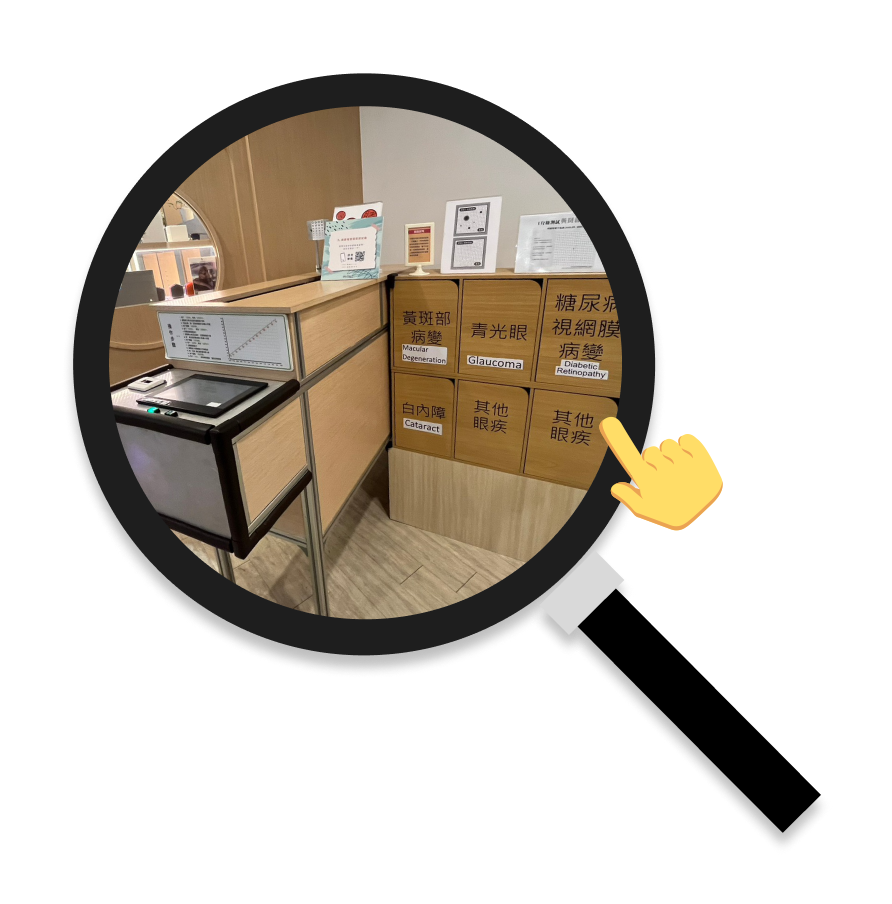
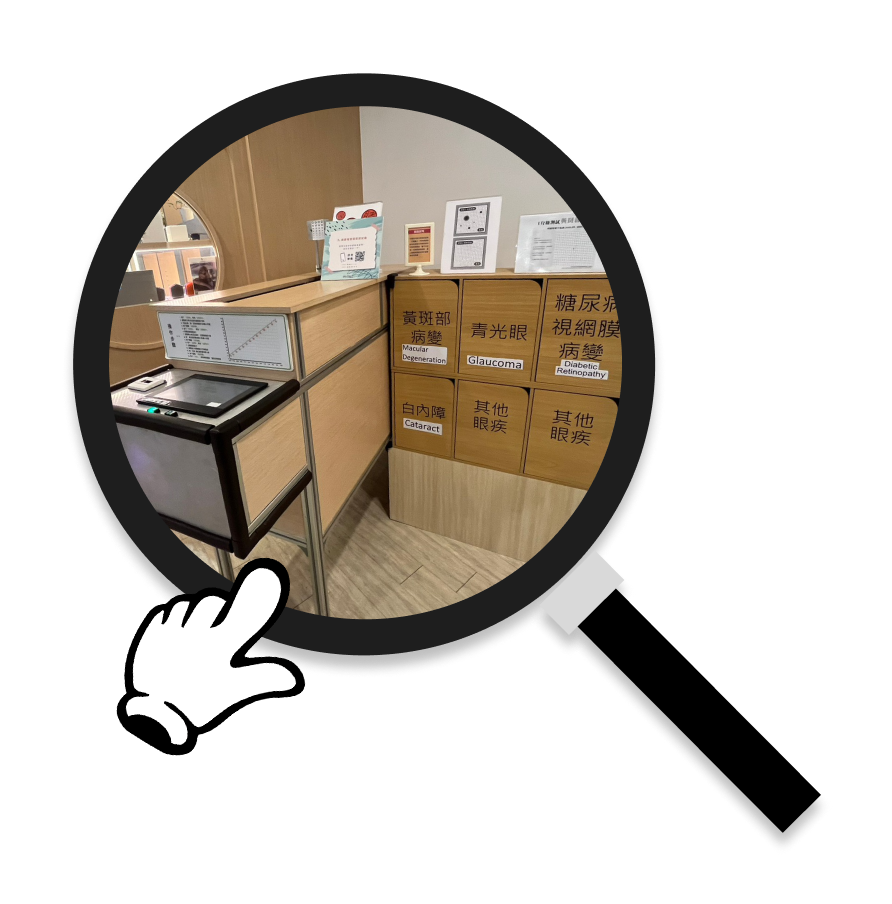
L4 update

Changed region(s): [[0.1513, 0.6195, 0.3632, 0.7743], [0.6659, 0.4646, 0.8173, 0.5885], [0.1211, 0.7124, 0.2724, 0.8363]]

diff --git a/html/L4.html b/html/L4.html
@@ -8,8 +8,8 @@
     <div class="container"> 
       <audio id="myAudio" controls="" hidden="hidden" autoplay="autoplay" loop="loop">
         <source src="../bgm/witch.mp3" type="audio/mpeg"/>
-      </audio><img class="background_image22" src="../picture/gif/p22_p28-31.gif"/><img class="button22_0" src="../picture/update06_09/page22/13 Pro - 128(change).png"/><img class="button22_1" src="../picture/update06_09/page22/Group 100(change).png"/><img class="button22_2" src="../picture/update06_09/page22/Group 101(change).png"/><img class="background_image23" src="../picture/gif/p23-25.gif" style="visibility: hidden;"/><img class="button23_0" src="../picture/update06_09/page23/13 Pro - 129(change).png" style="visibility: hidden;"/><img class="button23_1" src="../picture/update06_09/page23/Group 102(change).png" style="visibility: hidden;"/><img class="button23_2" src="../picture/update06_09/page23/Group 103(change).png" style="visibility: hidden;"/><img class="background_image24" src="../picture/gif/p23-25.gif" style="visibility: hidden;"/><img class="button24_0" src="../picture/update06_09/page24/13 Pro - 130(change).png" style="visibility: hidden;"/><img class="button24_1" src="../picture/update06_09/page24/Group 104(change).png" style="visibility: hidden;"/><img class="button24_2" src="../picture/update06_09/page24/Group 105(change).png" style="visibility: hidden;"/><img class="background_image25" src="../picture/gif/p23-25.gif" style="visibility: hidden;"/><img class="button25_0" src="../picture/update06_09/page25/13 Pro - 131(change).png" style="visibility: hidden;"/><img class="button25_1" src="../picture/update06_09/page25/Group 106(change).png" style="visibility: hidden;"/><img class="button25_2" src="../picture/update06_09/page25/Group 107(change).png" style="visibility: hidden;"/><img class="background_image26" src="../picture/page26/iPhone 13/13 Pro - 118.png" style="visibility: hidden;"/><img class="button26_0" src="../picture/update06_09/page26/Group 43_.png" style="visibility: hidden;"/><img class="button26_1" src="../picture/update06_09/page26/Group 292.png" style="visibility: hidden;"/><img class="button26_2" src="../picture/update06_09/page26/Group 109(change).png" style="visibility: hidden;"/><img class="button26_3" src="../picture/update06_09/page26/Group 290.png" style="visibility: hidden;"/><img class="button26_1_" src="../picture/update06_09/page26/Group 295.png" style="visibility: hidden;"/><img class="button26_2_" src="../picture/update06_09/page26/Group 298 (2).png" style="visibility: hidden;"/><img class="button26_3_" src="../picture/update06_09/page26/Group 293.png" style="visibility: hidden;"/><img class="button26_4" src="../picture/update06_09/page26/Group 111(change).png" style="visibility: hidden;"/><img class="background_image28" src="../picture/gif/p22_p28-31.gif" style="visibility: hidden;"/><img class="button28_0" src="../picture/update06_09/page28/13 Pro - 132(change).png" style="visibility: hidden;"/><img class="button28_1" src="../picture/update06_09/page28/Group 112(change).png" style="visibility: hidden;"/><img class="button28_2" src="../picture/update06_09/page28/Group 113(change).png" style="visibility: hidden;"/><img class="background_image29" src="../picture/gif/p22_p28-31.gif" style="visibility: hidden;"/><img class="button29_0" src="../picture/update06_09/page29/13 Pro - 133(change).png" style="visibility: hidden;"/><img class="button29_1" src="../picture/update06_09/page29/Group 118(change).png" style="visibility: hidden;"/><img class="button29_2" src="../picture/update06_09/page29/Group 119(change).png" style="visibility: hidden;"/><img class="button29_3" src="../picture/update06_09/page29/Group 306(change).png" style="visibility: hidden;"/><img class="button29_4" src="../picture/update06_09/page29/Group 117(change).png" style="visibility: hidden;"/><img class="button29_5" src="../picture/update06_09/page29/Group 116(change).png" style="visibility: hidden;"/><img class="button29_6" src="../picture/update06_09/page29/Group 115(change).png" style="visibility: hidden;"/><img class="button29_1_" src="../picture/update06_09/page29/Group 313.png" style="visibility: hidden;"/><img class="button29_2_" src="../picture/update06_09/page29/Group 312.png" style="visibility: hidden;"/><img class="button29_3_" src="../picture/update06_09/page29/Group 311.png" style="visibility: hidden;"/><img class="button29_4_" src="../picture/update06_09/page29/Group 308.png" style="visibility: hidden;"/><img class="button29_5_" src="../picture/update06_09/page29/Group 309.png" style="visibility: hidden;"/><img class="button29_6_" src="../picture/update06_09/page29/Group 310.png" style="visibility: hidden;"/><img class="button29_7" src="../picture/update06_09/page29/Group 114(change).png" style="visibility: hidden;"/><img class="background_image30" src="../picture/gif/p22_p28-31.gif" style="visibility: hidden;"/><img class="button30_0" src="../picture/update06_09/page30/13 Pro - 134(change).png" style="visibility: hidden;"/>
-      <input class="input30" id="Input" type="number" placeholder="時長" style="visibility: hidden;"/><img class="button30_1" src="../picture/update06_09/page30/Group 122(change).png" style="visibility: hidden;"/><img class="background_image31" src="../picture/gif/p22_p28-31.gif" style="visibility: hidden;"/><img class="button31_0" src="../picture/update06_09/page31/13 Pro - 135(change).png" style="visibility: hidden;"/><img class="button31_1" src="../picture/update06_09/page31/Group 123(change).png" style="visibility: hidden;"/><img class="button31_2" src="../picture/update06_09/page31/Group 124(change).png" style="visibility: hidden;"/><img class="background_image32" src="../picture/update06_09/page32/13 Pro - 117(change).png" style="visibility: hidden;"/><img class="button32_1" src="../picture/update06_09/page32/Group 125(change).png" style="visibility: hidden;"/><img class="background_image33" src="../picture/update06_09/page33/13 Pro - 147(change).png" style="visibility: hidden;"/><img class="button33_0" src="../picture/update06_09/page33/Group 194.png" style="visibility: hidden;"/><img class="button33_1" src="../picture/update06_09/page33/click.png" style="visibility: hidden;"/>
+      </audio><img class="background_image22" src="../picture/gif/p22_p28-31.gif"/><img class="button22_0" src="../picture/update06_09/page22/13 Pro - 128(change).png"/><img class="button22_1" src="../picture/update06_09/page22/Group 100(change).png"/><img class="button22_2" src="../picture/update06_09/page22/Group 101(change).png"/><img class="background_image23" src="../picture/gif/p23-25.gif" style="visibility: hidden;"/><img class="button23_0" src="../picture/update06_09/page23/13 Pro - 129(change).png" style="visibility: hidden;"/><img class="button23_1" src="../picture/update06_09/page23/Group 102(change).png" style="visibility: hidden;"/><img class="button23_2" src="../picture/update06_09/page23/Group 103(change).png" style="visibility: hidden;"/><img class="background_image24" src="../picture/gif/p23-25.gif" style="visibility: hidden;"/><img class="button24_0" src="../picture/update06_09/page24/13 Pro - 130(change).png" style="visibility: hidden;"/><img class="button24_1" src="../picture/update06_09/page24/Group 104(change).png" style="visibility: hidden;"/><img class="button24_2" src="../picture/update06_09/page24/Group 105(change).png" style="visibility: hidden;"/><img class="background_image25" src="../picture/gif/p23-25.gif" style="visibility: hidden;"/><img class="button25_0" src="../picture/update06_09/page25/13 Pro - 131(change).png" style="visibility: hidden;"/><img class="button25_1" src="../picture/update06_09/page25/Group 106(change).png" style="visibility: hidden;"/><img class="button25_2" src="../picture/update06_09/page25/Group 107(change).png" style="visibility: hidden;"/><img class="background_image26" src="../picture/update06_09/page26/13 Pro - 118(change).png" style="visibility: hidden;"/><img class="button26_0" src="../picture/update06_09/page26/Group 43_.png" style="visibility: hidden;"/><img class="button26_1" src="../picture/update06_09/page26/Group 292.png" style="visibility: hidden;"/><img class="button26_2" src="../picture/update06_09/page26/Group 109(change).png" style="visibility: hidden;"/><img class="button26_3" src="../picture/update06_09/page26/Group 290.png" style="visibility: hidden;"/><img class="button26_1_" src="../picture/update06_09/page26/Group 295.png" style="visibility: hidden;"/><img class="button26_2_" src="../picture/update06_09/page26/Group 298 (2).png" style="visibility: hidden;"/><img class="button26_3_" src="../picture/update06_09/page26/Group 293.png" style="visibility: hidden;"/><img class="button26_4" src="../picture/update06_09/page26/Group 111(change).png" style="visibility: hidden;"/><img class="background_image28" src="../picture/gif/p22_p28-31.gif" style="visibility: hidden;"/><img class="button28_0" src="../picture/update06_09/page28/13 Pro - 132(change).png" style="visibility: hidden;"/><img class="button28_1" src="../picture/update06_09/page28/Group 112(change).png" style="visibility: hidden;"/><img class="button28_2" src="../picture/update06_09/page28/Group 113(change).png" style="visibility: hidden;"/><img class="background_image29" src="../picture/gif/p22_p28-31.gif" style="visibility: hidden;"/><img class="button29_0" src="../picture/update06_09/page29/13 Pro - 133(change).png" style="visibility: hidden;"/><img class="button29_1" src="../picture/update06_09/page29/Group 118(change).png" style="visibility: hidden;"/><img class="button29_2" src="../picture/update06_09/page29/Group 119(change).png" style="visibility: hidden;"/><img class="button29_3" src="../picture/update06_09/page29/Group 306(change).png" style="visibility: hidden;"/><img class="button29_4" src="../picture/update06_09/page29/Group 117(change).png" style="visibility: hidden;"/><img class="button29_5" src="../picture/update06_09/page29/Group 116(change).png" style="visibility: hidden;"/><img class="button29_6" src="../picture/update06_09/page29/Group 115(change).png" style="visibility: hidden;"/><img class="button29_1_" src="../picture/update06_09/page29/Group 313.png" style="visibility: hidden;"/><img class="button29_2_" src="../picture/update06_09/page29/Group 312.png" style="visibility: hidden;"/><img class="button29_3_" src="../picture/update06_09/page29/Group 311.png" style="visibility: hidden;"/><img class="button29_4_" src="../picture/update06_09/page29/Group 308.png" style="visibility: hidden;"/><img class="button29_5_" src="../picture/update06_09/page29/Group 309.png" style="visibility: hidden;"/><img class="button29_6_" src="../picture/update06_09/page29/Group 310.png" style="visibility: hidden;"/><img class="button29_7" src="../picture/update06_09/page29/Group 114(change).png" style="visibility: hidden;"/><img class="background_image30" src="../picture/gif/p22_p28-31.gif" style="visibility: hidden;"/><img class="button30_0" src="../picture/update06_09/page30/13 Pro - 134(change).png" style="visibility: hidden;"/>
+      <input class="input30" id="Input" type="number" placeholder="時長" style="visibility: hidden;"/><img class="button30_1" src="../picture/update06_09/page30/Group 122(change).png" style="visibility: hidden;"/><img class="background_image31" src="../picture/gif/p22_p28-31.gif" style="visibility: hidden;"/><img class="button31_0" src="../picture/update06_09/page31/13 Pro - 135(change).png" style="visibility: hidden;"/><img class="button31_1" src="../picture/update06_09/page31/Group 123(change).png" style="visibility: hidden;"/><img class="button31_2" src="../picture/update06_09/page31/Group 124(change).png" style="visibility: hidden;"/><img class="background_image32" src="../picture/update06_09/page32/13 Pro - 117(change).png" style="visibility: hidden;"/><img class="button32_1" src="../picture/update06_09/page32/Group 125(change).png" style="visibility: hidden;"/><img class="background_image33" src="../picture/update06_09/page33/13 Pro - 147(change).png" style="visibility: hidden;"/><img class="button33_0" src="../picture/update06_09/page33/Group 194.png" style="visibility: hidden;"/>
     </div>
     <script src="../js/L4.js"></script>
   </body>

diff --git a/js/L4.js b/js/L4.js
@@ -66,7 +66,6 @@ var buttonGroup32_1 = document.querySelector(".button32_1");
 
 var background_33 = document.querySelector(".background_image33");
 var buttonGroup33_0 = document.querySelector(".button33_0");
-var buttonGroup33_1 = document.querySelector(".button33_1");
 
 
 var x = document.getElementById("myAudio");
@@ -236,10 +235,9 @@ function clickBG32_1(){
 
     background_33.setAttribute('style','none');
     buttonGroup33_0.setAttribute('style','none');
-    buttonGroup33_1.setAttribute('style','none');
 }
 
-function clickBG33_1(){
+function clickBG33_0(){
     window.location = ('../html/L5.html');
 }
 
@@ -461,5 +459,5 @@ buttonGroup31_2.addEventListener('touchend',clickBG31_1);
 buttonGroup32_1.addEventListener('touchstart',clickBG32_1_);
 buttonGroup32_1.addEventListener('touchend',clickBG32_1);
 
-buttonGroup33_1.addEventListener('touchend',clickBG33_1);
+buttonGroup33_0.addEventListener('touchend',clickBG33_0);
 

diff --git a/L4.sass b/L4.sass
@@ -393,16 +393,7 @@ body
     width: 50%
     right: 13%
     top: 40%
-    z-index: 2
-.button33_1
-    position: absolute
-    max-width: 120px
-    max-height: 120px
-    opacity: 0.5
-    width: 40%
-    left: 30%
-    top: 77%
-    animation: shake 2s
+    animation: shake 1.5s
     animation-iteration-count: infinite
     z-index: 2
     

diff --git a/css/L4.css b/css/L4.css
@@ -456,18 +456,7 @@ body {
   width: 50%;
   right: 13%;
   top: 40%;
-  z-index: 2;
-}
-
-.button33_1 {
-  position: absolute;
-  max-width: 120px;
-  max-height: 120px;
-  opacity: 0.5;
-  width: 40%;
-  left: 30%;
-  top: 77%;
-  animation: shake 2s;
+  animation: shake 1.5s;
   animation-iteration-count: infinite;
   z-index: 2;
 }
